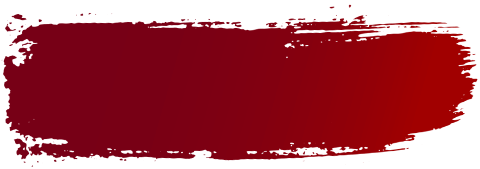
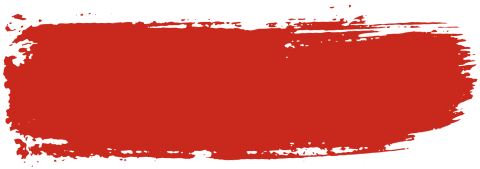
Refine

diff --git a/css/main.css b/css/main.css
@@ -1,3 +1,7 @@
+:root {
+  --red: #C8291C;
+}
+
 * {
   box-sizing: border-box;
 }
@@ -10,7 +14,7 @@ body {
   background-image: url("../img/bg.jpg");
   background-repeat: no-repeat;
   background-size: cover;
-  padding: 2rem 2rem 6rem 2rem;
+  padding: 4rem 2rem 6rem 2rem;
   min-height: 100vh;
   color: #F6EF22;
   font-family: 'UnifrakturCook', cursive;
@@ -29,46 +33,184 @@ img {
   max-width: 100%;
 }
 
+h1 {
+ color: var(--red);
+ margin: 0 0 2rem;
+ font-size: 4rem;
+ line-height: 0.6;
+ text-align: center;
+}
+
 #summon {
   background-image: url("../img/button.png");
   background-repeat: no-repeat;
+  background-position: center;
+  background-size: contain;
   -webkit-appearance: none;
   appearance: none;
-  background-size: contain;
   border: none;
   background-color: transparent;
-  padding: 1rem;
-  margin-bottom: 2rem;
+  padding: 1.5rem;
+  margin: 0 0 2.5rem 0;
   color: inherit;
   font-family: inherit;
   font-size: inherit;
+  transition: transform 200ms ease-out;
 }
 
-.hidden,
-[hidden] {
-  display: none !important;
+#summon:active {
+  transform: scale(0.9) rotate(-2deg);
 }
 
-.sr-only {
-  border: 0;
-  clip: rect(0, 0, 0, 0);
-  height: 1px;
-  margin: -1px;
-  overflow: hidden;
-  padding: 0;
+.demon-part-wrapper {
+  position: relative;
+  width: 100%;
+  padding-top: 57.91%;
+  background-color: var(--red);
+}
+
+.demon-part-wrapper:first-of-type {
+  border-top-left-radius: 0.25rem;
+  border-top-right-radius: 0.25rem;
+}
+
+.demon-part-wrapper:last-of-type {
+  border-bottom-left-radius: 0.25rem;
+  border-bottom-right-radius: 0.25rem;
+  margin: 0 0 3rem 0;
+}
+
+.demon-part {
+  /* aspect-ratio: 240 / 139; SOON */
   position: absolute;
-  white-space: nowrap;
-  width: 1px;
+  top: 0;
+  width: 100%;
+  height: 100%;
+  opacity: 0;
+  transition: opacity 200ms ease-out;
 }
 
-.sr-only.focusable:active,
-.sr-only.focusable:focus {
-  clip: auto;
-  height: auto;
-  margin: 0;
-  overflow: visible;
-  position: static;
-  white-space: inherit;
-  width: auto;
+.demon-part[src] {
+  opacity: 1;
 }
 
+a {
+  color: inherit;
+}
+
+p {
+  text-align: center;
+  margin: 0 0 2rem 0;
+}
+
+.logo {
+  width: 120px;
+}
+
+.shake {
+  animation: shake 0.5s cubic-bezier(0.36, 0.07, 0.19, 0.97) both;
+  transform: translate3d(0, 0, 0);
+  backface-visibility: hidden;
+  perspective: 1000px;
+}
+
+@keyframes shake {
+  10%, 90% {
+    transform: translate3d(-3px, 1px, 0);
+  }
+  
+  20%, 80% {
+    transform: translate3d(2px, -7px, 0);
+  }
+
+  30%, 50%, 70% {
+    transform: translate3d(-4px, 2px, 0);
+  }
+
+  40%, 60% {
+    transform: translate3d(4px, -2px, 0);
+  }
+}
+
+.noise-wrapper {
+  position: fixed;
+  left: 0;
+  top: 0;
+  width: 100%;
+  height: 100%;
+  opacity: 0.7;
+  overflow: hidden;
+  z-index: 10;
+  pointer-events: none;
+}
+
+.noise-wrapper:after {
+  content: '';
+  position: absolute;
+  top: 0;
+  right: 0;
+  bottom: 0;
+  left: 0;
+}
+
+.noise {
+  position: absolute;
+  top: -500px;
+  right: -500px;
+  bottom: -500px;
+  left: -500px;
+  background: transparent url("../img/noise.png") 0 0;
+  background-size: 320px 320px;
+  opacity: .35;
+  animation: noise 1s steps(8, end) infinite both;
+}
+
+footer {
+  font-family: -apple-system, BlinkMacSystemFont, avenir next, avenir, segoe ui, helvetica neue, helvetica, Ubuntu, roboto, noto, arial, sans-serif;
+  font-size: 70%;
+  opacity: 0.5;
+  text-align: center;
+}
+
+@keyframes noise {
+  0% {
+    transform: translateX(0px, 0px);
+  }
+  10% {
+    transform: translate(-100px, 100px);
+  }
+  20% {
+    transform: translate(150px, -100px);
+  }
+  30% {
+    transform: translate(-100px, 100px);
+  }
+  40% {
+    transform: translate(100px, -150px);
+  }
+  50% {
+    transform: translate(-100px, 200px);
+  }
+  60% {
+    transform: translate(-200px, -100px);
+  }
+  70% {
+    transform: translateY(50px, 100px);
+  }
+  80% {
+    transform: translate(100px, -150px);
+  }
+  90% {
+    transform: translate(0px, 200px);
+  }
+  100% {
+    transform: translate(-100px, 100px);
+  }
+}
+
+@media (prefers-reduced-motion: reduce) {
+  * {
+    transition: none !important;
+    animation: none !important;
+  }
+}

diff --git a/index.html b/index.html
@@ -1,9 +1,9 @@
 <!doctype html>
-<html class="no-js" lang="en">
+<html lang="en">
 
 <head>
   <meta charset="utf-8">
-  <title>Endless Demon Deck Generator</title>
+  <title>Endless Demonator</title>
   <meta name="description" content="">
   <meta name="viewport" content="width=device-width, initial-scale=1">
 
@@ -18,19 +18,31 @@
   <link href="https://fonts.googleapis.com/css2?family=UnifrakturCook:wght@700&display=swap" rel="stylesheet">
   <link rel="stylesheet" href="css/main.css">
 
-  <meta name="theme-color" content="#fafafa">
+  <meta name="theme-color" content="#c8291c">
 </head>
 
 <body>
   <main>
-    <h1>Endless Demon Deck Generator</h1>
+    <h1>Endless Demonator</h1>
 
     <button id="summon">Summon Demon</button>
 
-    <img id="top">
-    <img id="middle">
-    <img id="bottom">
+    <div class="demon-part-wrapper"><img class="demon-part" id="top" alt="Top part of a random demon."></div>
+    <div class="demon-part-wrapper"><img class="demon-part" id="middle" alt="Middle part of a random demon."></div>
+    <div class="demon-part-wrapper"><img class="demon-part" id="bottom" alt="Bottom part of a random demon."></div>
+
+    <p>A perfidious online ritual for <a href="https://www.skeletonkeygames.com">SkeletonKey Games'</a> <a href="https://www.drivethrurpg.com/product/345957/The-Endless-Demon-Deck">The Endless Demon Deck</a> for <a href="https://morkborg.com">Mörk Borg</a> (and other demon-infested tabletop roleplaying games).</p>
+    <p>Ensorcelled by</p>
+    <p><a href="https://mottokrosh.com"><img class="logo" src="img/mm-logo.png" alt="Mottokrosh Machinations logo."></a></p>
+    
+    <footer>
+      The Endless Demon Deck is copyright SkeletonKey Games. Mörg Borg is copyright Ockult Örtmästare Games and Stockholm Kartell. Mottokrosh just made this random generator from it.
+      <a href="https://github.com/Mottokrosh/endless-demon-deck-generator">GitHub Repo</a> &#8226;
+      <a href="https://twitter.com/Mottokrosh">Mottokrosh Twitter</a>
+    </footer>
   </main>
+  
+  <div class="noise-wrapper"><div class="noise"></div></div>
 
   <script src="js/main.js"></script>
 

diff --git a/js/main.js b/js/main.js
@@ -5,23 +5,25 @@ const bottoms = [];
 const topEl = document.getElementById('top');
 const middleEl = document.getElementById('middle');
 const bottomEl = document.getElementById('bottom');
+const mainEl = document.querySelector('main');
 
 for (let i = 1; i <= max; i++) tops.push(`top-${i.toString().padStart(2, '0')}.jpg`);
 for (let i = 1; i <= max; i++) middles.push(`middle-${i.toString().padStart(2, '0')}.jpg`);
 for (let i = 1; i <= max; i++) bottoms.push(`bottom-${i.toString().padStart(2, '0')}.jpg`);
-
-console.log(tops, middles, bottoms);
 
 const summonDemon = () => {
 	const top = tops[Math.floor(Math.random() * max)];
 	const middle = middles[Math.floor(Math.random() * max)];
 	const bottom = bottoms[Math.floor(Math.random() * max)];
 	
-	console.log(top, middle, bottom);
-	
 	topEl.src = `img/${top}`;
 	middleEl.src = `img/${middle}`;
 	bottomEl.src = `img/${bottom}`;
+	
+	mainEl.classList.remove('shake');
+	setTimeout(() => {
+		mainEl.classList.add('shake');
+	}, 0);
 };
 
 document.getElementById('summon').addEventListener('click', summonDemon);
